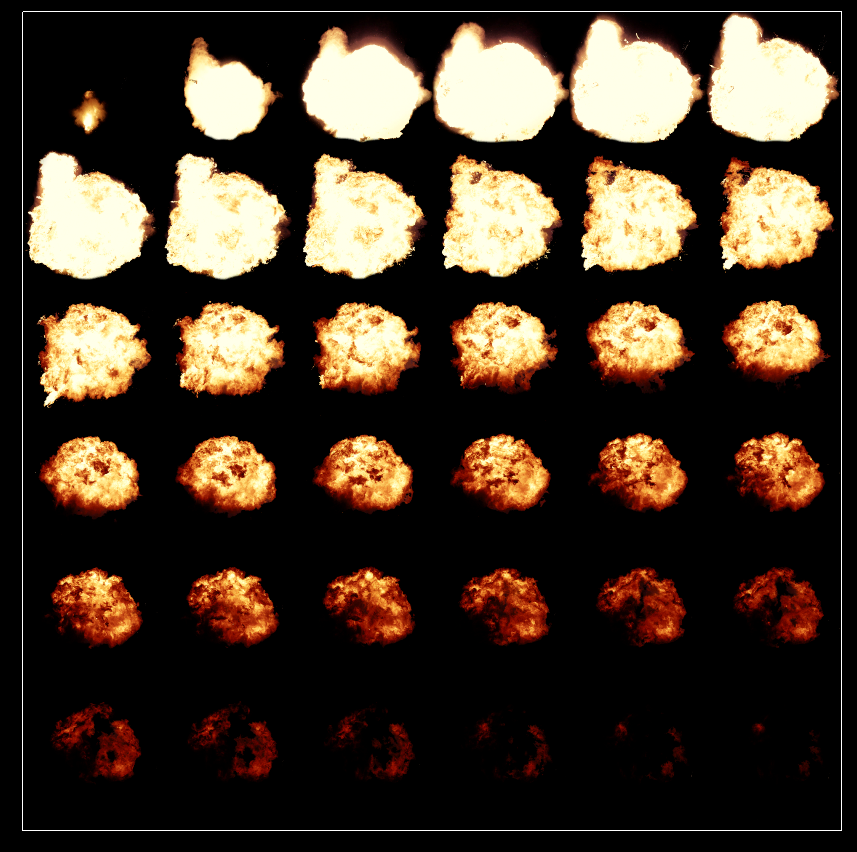
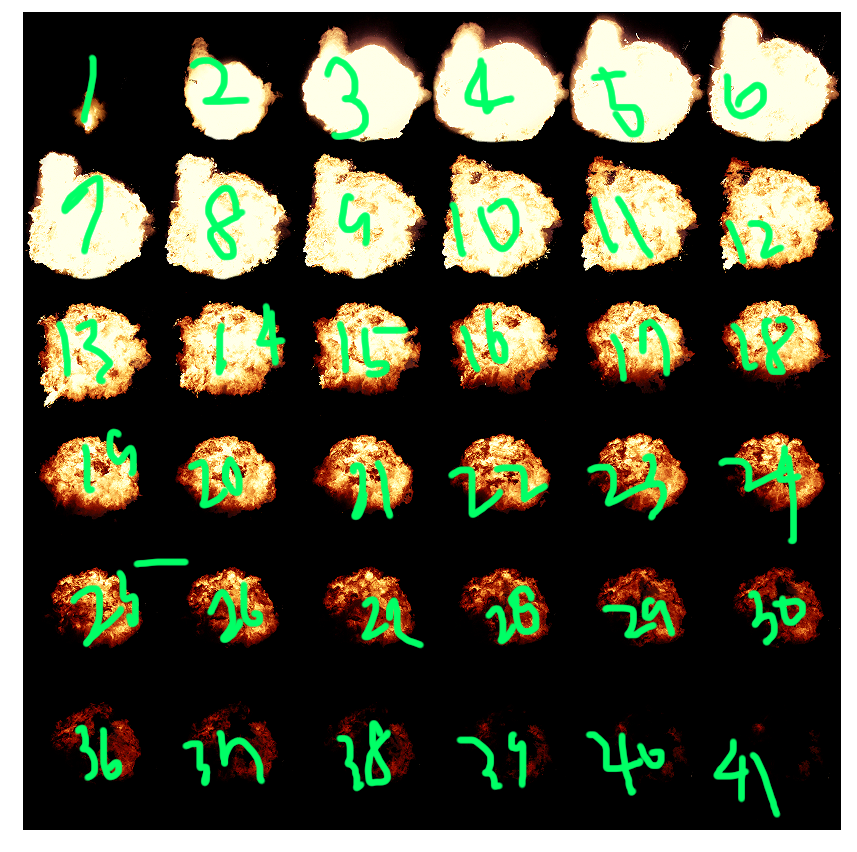
add. subUV 패널

diff --git a/Editor/UI/EditorMainPanel.cpp b/Editor/UI/EditorMainPanel.cpp
@@ -7,7 +7,8 @@
 #include "ImGui/imgui_impl_win32.h"
 // Merge icons into default tool font
 #include "ImGui/IconsFontAwesome4.h"
-
+#include "Engine/EngineServices/EngineServices.h"
+#include "Engine/Render/Resource/RenderResourceManager.h"
 #include "Render/Renderer/Renderer.h"
 #include "World/Gizmo/GizmoManager.h"
 #include "World/Primitives/Primitives.h"
@@ -15,6 +16,7 @@
 #include "Core/Common.h"
 #include "Engine/Core/InputSystem.h"
 #include "Classes/ASpotlight.h"
+#include "World/Primitives/SubUV/SubUV.h"
 
 #define SEPARATOR(); ImGui::Spacing(); ImGui::Spacing(); ImGui::Separator(); ImGui::Spacing(); ImGui::Spacing();
 
@@ -461,6 +463,73 @@ void FEditorMainPanel::RenderPickedActorWindow(AActor* Actor) {
 
 		// Color
 	}
+
+	for (USceneComponent* comp : Actor->GetComponents()) {
+		if (comp->IsA< USubUVComponent>()) {
+			ImGui::SeparatorText("Sub UV");
+
+			RenderPicekdSubUVWindow(static_cast<USubUVComponent*>(comp));
+
+		}
+	}
+}
+
+void FEditorMainPanel::RenderPicekdSubUVWindow(USubUVComponent* SubUVComp)
+{
+	std::wstring wFileName = SubUVComp->GetFileName();
+	std::string textureFileName(wFileName.begin(), wFileName.end());
+
+	ImGui::Text( ("Texture File: " + textureFileName).c_str());
+
+	if (ImGui::Button("Load New Texture")) {
+		FString newFilePath = FEngineServices::GetResourceManager()->LoadResourceFilePath();
+
+		std::replace(newFilePath.begin(), newFilePath.end(), '/', '\\');
+		std::wstring FileDestinationW(newFilePath.begin(), newFilePath.end());
+		SubUVComp->ReloadTextureResource(FileDestinationW);
+	}
+
+	float offsetLeft, offsetRight, offsetUP, offsetBottom;
+	offsetLeft = SubUVComp->OffsetLeftX; offsetRight = SubUVComp->OffsetRightX; offsetUP = SubUVComp->OffsetUpY; offsetBottom = SubUVComp->OffsetBottomY;
+
+	int playRate = SubUVComp->PlayRate;
+	
+	ImGui::Checkbox("is Loop", &(SubUVComp->bLoop));
+
+	if (ImGui::DragInt("Play Rate", &playRate, 1, 60)) {
+		SubUVComp->PlayRate = playRate;
+	}
+
+	if (ImGui::DragFloat("Offset Left", &offsetLeft,
+		0.01f,          // speed in degrees
+		0.0f,          // min deg
+		1.0f))        // max deg
+	{
+		SubUVComp->OffsetLeftX = offsetLeft;
+	}
+;
+
+	if (ImGui::DragFloat("Offset Right", &offsetRight,0.01f,0.0f,1.0f))
+		SubUVComp->OffsetRightX = offsetRight;
+
+
+	if (ImGui::DragFloat("Offset Up", &offsetUP, 0.01f, 0.0f, 1.0f))
+		SubUVComp->OffsetUpY = offsetUP;
+
+
+	if (ImGui::DragFloat("Offset Bottom", &offsetBottom, 0.01f, 0.0f, 1.0f))
+		SubUVComp->OffsetBottomY = offsetBottom;
+
+	int rows, columns;
+	rows = SubUVComp->CellRows; columns = SubUVComp->CellColumns;
+
+	if (ImGui::DragInt("Rows", &rows, 1, 1, 10))
+		SubUVComp->CellRows = rows;
+
+
+	if (ImGui::DragInt("Columns", &columns, 1, 1, 10))
+		SubUVComp->CellColumns = columns;
+
 }
 
 void FEditorMainPanel::Update()

diff --git a/Engine/Render/Resource/RenderResourceManager.cpp b/Engine/Render/Resource/RenderResourceManager.cpp
@@ -4,10 +4,27 @@
 #include <d3dcompiler.h>
 #include "DirectXTK/WICTextureLoader.h"
 #include "Render/Device/D3DDevice.h"
+#include <fstream>
+#include <filesystem>
+#include <iostream>
 
 void FRenderResourceManager::Create(FD3DDevice* device)
 {
     this->device = device;
+}
+
+void FRenderResourceManager::Release()
+{
+    OutputDebugString(L"[Shutdown] 텍스처 정리 시작\n");
+    for (auto& [id, data] : TextureMap)
+    {
+        if (data.ShaderResourceView) { data.ShaderResourceView->Release(); data.ShaderResourceView = nullptr; }
+        if (data.Texture) { data.Texture->Release(); data.Texture = nullptr; }
+    }
+    TextureMap.clear();
+    OutputDebugString(L"[Shutdown] 텍스처 dhks\n");
+
+    this->device = nullptr;
 }
 
 int FRenderResourceManager::CreateTexture(std::wstring filepath)
@@ -37,4 +54,59 @@ int FRenderResourceManager::CreateTexture(std::wstring filepath)
     TextureMap.emplace(NewId, data);
 
     return NewId;
+}
+
+FString FRenderResourceManager::LoadResourceFilePath()
+{
+    FString FilePath = GetFileDialoguePath();
+    if (FilePath.empty()) { return ""; }
+    std::ifstream File(FilePath);
+    if (!File.is_open()) {
+        // Failed to open file at target destination
+        std::cerr << "Failed to open file at target destination" << std::endl;
+        return nullptr;
+    }
+
+    return FilePath;
+}
+
+FString FRenderResourceManager::GetFileDialoguePath()
+{
+    std::string FileDestination;
+    char szFile[MAX_PATH] = {};
+
+    OPENFILENAMEA ofn = {};
+    ofn.lStructSize = sizeof(ofn);
+    ofn.hwndOwner = nullptr;
+    ofn.lpstrFilter = "Image Files (*.png;*.jpg;*.jpeg;*.PNG;)\0*.png;*.jpg;*.jpeg;*.PNG\0All Files (*.*)\0*.*\0";
+    ofn.lpstrFile = szFile;
+    ofn.nMaxFile = MAX_PATH;
+    ofn.lpstrDefExt = "png";
+    ofn.lpstrTitle = "Load Image";
+    ofn.Flags = OFN_FILEMUSTEXIST | OFN_PATHMUSTEXIST;
+
+    if (!GetOpenFileNameA(&ofn)) {
+        return "";
+    }
+
+    FileDestination = szFile;
+
+    const size_t DotPos = FileDestination.rfind('.');
+    if (DotPos == std::string::npos) {
+        std::cerr << "Invalid file: no extension found" << std::endl;
+        return "";
+    }
+
+    const std::string Extension = FileDestination.substr(DotPos);
+
+    const std::vector<std::string> ValidExtensions = { ".png", ".jpg", ".jpeg", ".PNG"};
+    const bool bValidExtension = std::any_of(ValidExtensions.begin(), ValidExtensions.end(),
+        [&Extension](const std::string& Ext) { return Extension == Ext; });
+
+    if (!bValidExtension) {
+        std::cerr << "Invalid file type: got " << Extension << std::endl;
+        return "";
+    }
+    
+    return FileDestination;
 }

diff --git a/World/Primitives/SubUV/SubUV.cpp b/World/Primitives/SubUV/SubUV.cpp
@@ -10,12 +10,21 @@ void USubUVComponent::UpdateFrame(float deltaTime)
 {
 	ElaspedTime += deltaTime;
 
+	if (CellRows == 0 || CellColumns == 0 || PlayRate == 0) return; 
+
+	CellSizeX = (1.f - OffsetLeftX - OffsetRightX) / CellColumns;
+	CellSizeY = (1.f - OffsetUpY - OffsetBottomY) / CellRows;
+	FrameCount = CellRows * CellColumns;
+	Timer = 1.f / PlayRate;
+
+
 	if (ElaspedTime >= Timer) {
 		ElaspedTime = 0;
+		if (!bLoop && CurrentFrameIndex + 1 == FrameCount) return;
 		CurrentFrameIndex = (++CurrentFrameIndex)%FrameCount;
 	}
-	currentU = OffsetLeftX +(CurrentFrameIndex % CellCountX) * CellSizeX;
-	currentV = OffsetUpY +(CurrentFrameIndex / CellCountX) * CellSizeY;
+	currentU = OffsetLeftX +(CurrentFrameIndex % CellColumns) * CellSizeX;
+	currentV = OffsetUpY +(CurrentFrameIndex / CellColumns) * CellSizeY;
 
 }
 
@@ -26,14 +35,17 @@ USubUVComponent::USubUVComponent(std::wstring filename)
 	OffsetLeftX = 24.f / 857.f; OffsetUpY = 12.f / 852.f;
 	OffsetRightX = 17.f/857.f, OffsetBottomY = 22.f / 852.f;
 
-	CellCountX = CellCountY = 6;
-	FrameCount = CellCountX * CellCountY;
+	CellRows = CellColumns = 6;
+	FrameCount = CellRows * CellColumns;
 	CurrentFrameIndex = 0;
-	Texture2DId = FEngineServices::GetResourceManager()->CreateTexture(this->filename);
+	if (FEngineServices::GetResourceManager()->GetTextureSize() > 0) 
+		Texture2DId = FEngineServices::GetResourceManager()->GetDefaultTexture();
+	else
+		Texture2DId = FEngineServices::GetResourceManager()->CreateTexture(this->filename);
 	Timer = 1.f / PlayRate;
 
-	CellSizeX = (1.f - OffsetLeftX - OffsetRightX) / CellCountX;
-	CellSizeY = (1.f - OffsetUpY - OffsetBottomY) / CellCountY;
+	CellSizeX = (1.f - OffsetLeftX - OffsetRightX) / CellColumns;
+	CellSizeY = (1.f - OffsetUpY - OffsetBottomY) / CellRows;
 
 	currentU = OffsetLeftX; currentV = OffsetUpY;
 	UVMeshData = &FMeshManager::GetUVRect();
@@ -81,7 +93,11 @@ void USubUVComponent::Update(float deltatime)
 
 void USubUVComponent::ReloadTextureResource(std::wstring filename)
 {
-	Texture2DId = FEngineServices::GetResourceManager()->CreateTexture(this->filename);
+	
+	int newTexture2DId = FEngineServices::GetResourceManager()->CreateTexture(filename);
+	if (newTexture2DId < 0) return;
+	Texture2DId = newTexture2DId;
+	this->filename = filename;
 
 }
 

diff --git a/World/Primitives/SubUV/SubUV.h b/World/Primitives/SubUV/SubUV.h
@@ -10,24 +10,28 @@ public:
     bool GetRenderCommand(const FMatrix& viewMatrix, const FMatrix& projMatrix, FRenderCommand& OutCommand) override;
     void Update(float deltatime) override;
     EPrimitiveType GetPrimitiveType() const override { return PrimitiveType; }
+    std::wstring GetFileName() { return filename; }
+    void ReloadTextureResource(std::wstring filename = L"Assets/Effects/Explosion.PNG");
 
 public:
     void UpdateWorldAABB() override;
     bool bIsBillBoard = true;
     float Timer;
     static constexpr EPrimitiveType PrimitiveType = EPrimitiveType::EPT_SubUV;
+    int CellRows, CellColumns;
+    float OffsetLeftX, OffsetUpY, OffsetRightX, OffsetBottomY;
+    int PlayRate = 24;
+    bool bLoop = true;
 
 private:
     const FUVMeshData* UVMeshData = nullptr;
     int Texture2DId = -1;
-    float OffsetLeftX, OffsetUpY, OffsetRightX, OffsetBottomY;
+
     int FrameCount;
     float CellSizeX, CellSizeY;
-    int CellCountX, CellCountY;
+
     int CurrentFrameIndex;
     std::wstring filename;
-    bool bLoop = true;
-    float PlayRate = 24.f;
 
 public:
     DECLARE_CLASS(USubUVComponent, UPrimitiveComponent)
@@ -35,7 +39,6 @@ public:
     float currentU, currentV;
 
 private:
-    void ReloadTextureResource(std::wstring filename = L"Assets/Effects/Explosion.PNG");
     bool RaycastMesh(const FRay& Ray, FHitResult& OutHitResult) override;
     float ElaspedTime;
 

diff --git a/Engine/Render/Device/D3DDevice.cpp b/Engine/Render/Device/D3DDevice.cpp
@@ -17,14 +17,23 @@ void FD3DDevice::Create(HWND InHWindow)
 void FD3DDevice::Release()
 {
 	DeviceContext->OMSetRenderTargets(0, nullptr, nullptr);
-
+	ID3D11Debug* d3dDebug = nullptr;
+	Device->QueryInterface(__uuidof(ID3D11Debug), (void**)&d3dDebug);
 	ReleaseSampler();
 	ReleaseBlendState();
 	ReleaseDepthStencilBuffer();
 	ReleaseRasterizerState();
 	ReleaseFrameBuffer();
 
+	
 	ReleaseDeviceAndSwapChain();
+
+	// 종료 시점에 호출
+	if (d3dDebug) {
+		OutputDebugString(L"=== ReportLiveDeviceObjects ===\n");
+		d3dDebug->ReportLiveDeviceObjects(D3D11_RLDO_DETAIL);
+		d3dDebug->Release();
+	}
 }
 
 void FD3DDevice::BeginFrame()
@@ -363,5 +372,10 @@ void FD3DDevice::ReleaseSampler()
 	if (FontSampler) {
 		FontSampler->Release();
 		FontSampler = nullptr;
+	}
+
+	if (SubUVSampler) {
+		SubUVSampler->Release();
+		SubUVSampler = nullptr;
 	}
 }

diff --git a/Editor/UI/EditorMainPanel.h b/Editor/UI/EditorMainPanel.h
@@ -7,10 +7,12 @@
 #include "Core/Common.h"
 #include "Object/Object.h"
 
+
 class FRenderer;
 class FEditorEngine;
 class FEditorViewportClient;
 class AActor;
+class USubUVComponent;
 
 enum class EPrimitiveType;
 
@@ -57,7 +59,7 @@ private:
 	void RenderObjectManager(FViewOutput& ViewOutput);
 	void RenderPickedObjectWindow(UObject*& Object);
 	void RenderPickedActorWindow(AActor* Actor);
-	
+	void RenderPicekdSubUVWindow(USubUVComponent* SubUVComp);
 public:
 	void Create(HWND InHWindow, FRenderer& InRenderer, FEditorEngine* InEditorEngine, FEditorViewportClient* InEditorViewport);
 	void Release();

diff --git a/Engine/Render/Renderer/Renderer.cpp b/Engine/Render/Renderer/Renderer.cpp
@@ -76,16 +76,16 @@ void FRenderer::Release()
 	Resources.EditorShader.Release();
 	Resources.OutlineShader.Release();
 	Resources.FontShader.Release();
+	Resources.SubUVShader.Release();
 
 	Resources.PerObjectConstantBuffer.Release();
 	Resources.GizmoPerObjectConstantBuffer.Release();
 	Resources.OverlayConstantBuffer.Release();
 	//Resources.EditorConstantBuffer.Release();
 	Resources.OutlineConstantBuffer.Release();
-
 	Resources.SubUVConstantBuffer.Release();
 
-
+	FEngineServices::GetResourceManager()->Release();
 
 	Resources.FontInstanceBuffer.Release();
 

diff --git a/Engine/Render/Resource/RenderResourceManager.h b/Engine/Render/Resource/RenderResourceManager.h
@@ -15,13 +15,17 @@ class FRenderResourceManager
 {
 public:
 	void Create(FD3DDevice* device);
-
+	void Release();
 	TextureData GetTexture(int id) { return TextureMap.at(id); }
 	int CreateTexture(std::wstring filepath);
-
+	int GetTextureSize() { return TextureMap.size(); }
+	int GetDefaultTexture() { return TextureMap.begin()->first; }
+	static FString LoadResourceFilePath();
 private:
 	TMap<int, TextureData> TextureMap; //id, 텍스쳐 맵
 	uint8 nextID = 0;
 	FD3DDevice* device;
+
+	static FString GetFileDialoguePath();
 };
 

diff --git a/Engine/Render/Resource/MeshBufferManager.cpp b/Engine/Render/Resource/MeshBufferManager.cpp
@@ -23,6 +23,13 @@ void FMeshBufferManager::Release()
 		pair.second.Release();
 	}
 	MeshBufferMap.clear();
+
+	for (auto& pair : UVMeshBufferMap)
+	{
+		pair.second.Release();
+	}
+	UVMeshBufferMap.clear();
+
 }
 
 //	MeshBuffer는 VB, IB를 모두 포함하고 있습니다.
